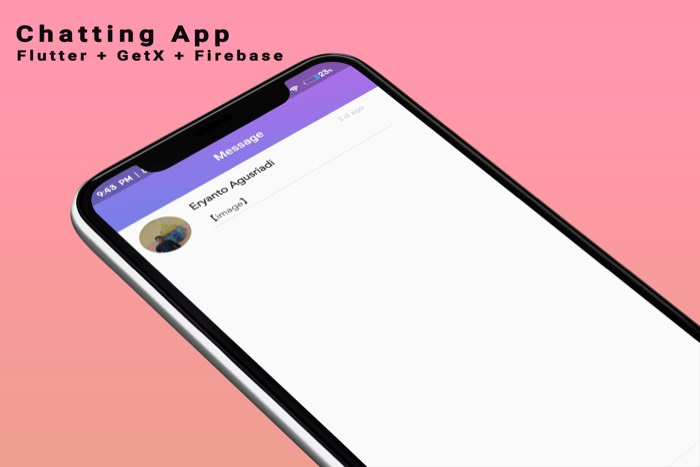
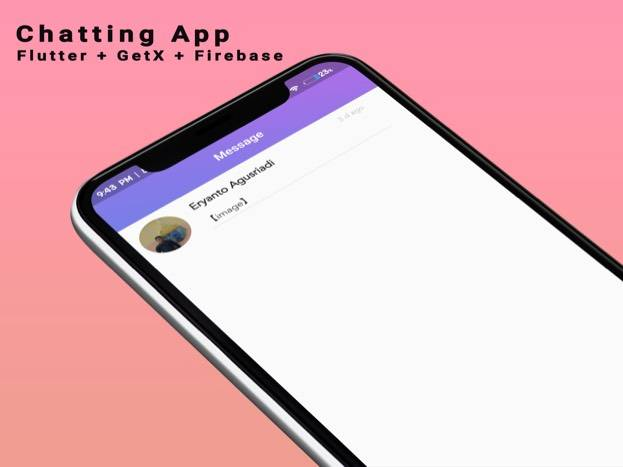
Fix the project count and two clipped covers
The hero claimed twelve projects. It had been right once: projects.html
carried exactly twelve cards until the 2023 portfolio was merged in and
brought seven more, and the copy was never updated. Nineteen now, in the
visible lede and the meta description, both languages — it matters on a page
whose whole premise is being accurate about the work.

Two more covers were losing content to the 4:3 crop, the same way the four
new ones were. Café System's was 900x326, so most of its width was discarded
and the rest zoomed into unreadable fragments; it now shows the categories
screen whole. Chatting App's banner has its title baked into the top-left, and
a centred crop ate the first letter of both lines — "hatting App", "utter +
GetX". Anchoring that crop at the left edge keeps the title and drops only
empty background.

Left alone: Airplane, Flutix, Shamo, Furniture and Food Delivery also crop by
11-25%, but they are device mockups that survive it. Food Delivery loses the
last letter of "Paypal" and nothing else.

Also checked and found correct: the category filter strip scrolls horizontally
on a phone and every chip filters (an earlier probe of mine measured the wrong
element and wrongly suggested five were unreachable). No horizontal overflow,
no card spilling its column, no broken images, and the four cards with no
screenshots sit fine among the rest.

Changed region(s): [[0.0, 0.03, 1.0, 1.0]]

diff --git a/en/projects.html b/en/projects.html
@@ -6,7 +6,7 @@
     <title>Projects — Eryanto Agusriadi</title>
     <meta
       name="description"
-      content="Twelve projects, labelled honestly: point-of-sale, attendance, services, delivery and bots — built with Flutter, Laravel and Node.js."
+      content="Nineteen projects, labelled honestly: point-of-sale, attendance, services, delivery and bots — built with Flutter, Laravel and Node.js."
     />
     <meta property="og:title" content="Projects — Eryanto Agusriadi" />
     <meta property="og:image" content="../og-en.png" />
@@ -70,7 +70,7 @@
         </h1>
         <div class="glow" aria-hidden="true"></div>
         <p class="lede" style="margin-top: 22px">
-          Twelve projects, labelled honestly: which ones people use, which one I
+          Nineteen projects, labelled honestly: which ones people use, which one I
           use myself, and which ones I built independently.
         </p>
         <ul class="legend">
@@ -368,10 +368,10 @@
             <img
               class="cover"
               src="../img/projects/p-cafe-system/cover.jpg"
-              width="900"
-              height="326"
+              width="605"
+              height="454"
               loading="lazy"
-              alt="The cash sessions screen: cashier shifts with opening float and variance"
+              alt="The categories screen: the product category catalogue in a grid"
             />
             <div class="card-body">
               <span class="badge">INDEPENDENT PROJECT</span>
@@ -636,7 +636,7 @@
             <img
               class="cover"
               src="../img/projects/p-chatting/cover.jpg"
-              width="700"
+              width="623"
               height="467"
               loading="lazy"
               alt=""

diff --git a/projects.html b/projects.html
@@ -6,7 +6,7 @@
     <title>Project — Eryanto Agusriadi</title>
     <meta
       name="description"
-      content="Dua belas project dengan status yang jujur: kasir, absensi, layanan, pengiriman, dan bot — dibangun dengan Flutter, Laravel, dan Node.js."
+      content="Sembilan belas project dengan status yang jujur: kasir, absensi, layanan, pengiriman, dan bot — dibangun dengan Flutter, Laravel, dan Node.js."
     />
     <meta property="og:title" content="Project — Eryanto Agusriadi" />
     <meta property="og:image" content="og.png" />
@@ -70,7 +70,7 @@
         </h1>
         <div class="glow" aria-hidden="true"></div>
         <p class="lede" style="margin-top: 22px">
-          Dua belas project, dengan status yang jujur: mana yang dipakai orang,
+          Sembilan belas project, dengan status yang jujur: mana yang dipakai orang,
           mana yang saya pakai sendiri, dan mana yang saya bangun secara
           mandiri.
         </p>
@@ -368,10 +368,10 @@
             <img
               class="cover"
               src="img/projects/p-cafe-system/cover.jpg"
-              width="900"
-              height="326"
+              width="605"
+              height="454"
               loading="lazy"
-              alt="Halaman Cash Sessions: daftar shift kasir dengan modal awal dan variance"
+              alt="Halaman Kategori: katalog kategori produk dalam tampilan grid"
             />
             <div class="card-body">
               <span class="badge">PROJECT MANDIRI</span>
@@ -644,7 +644,7 @@
             <img
               class="cover"
               src="img/projects/p-chatting/cover.jpg"
-              width="700"
+              width="623"
               height="467"
               loading="lazy"
               alt=""
